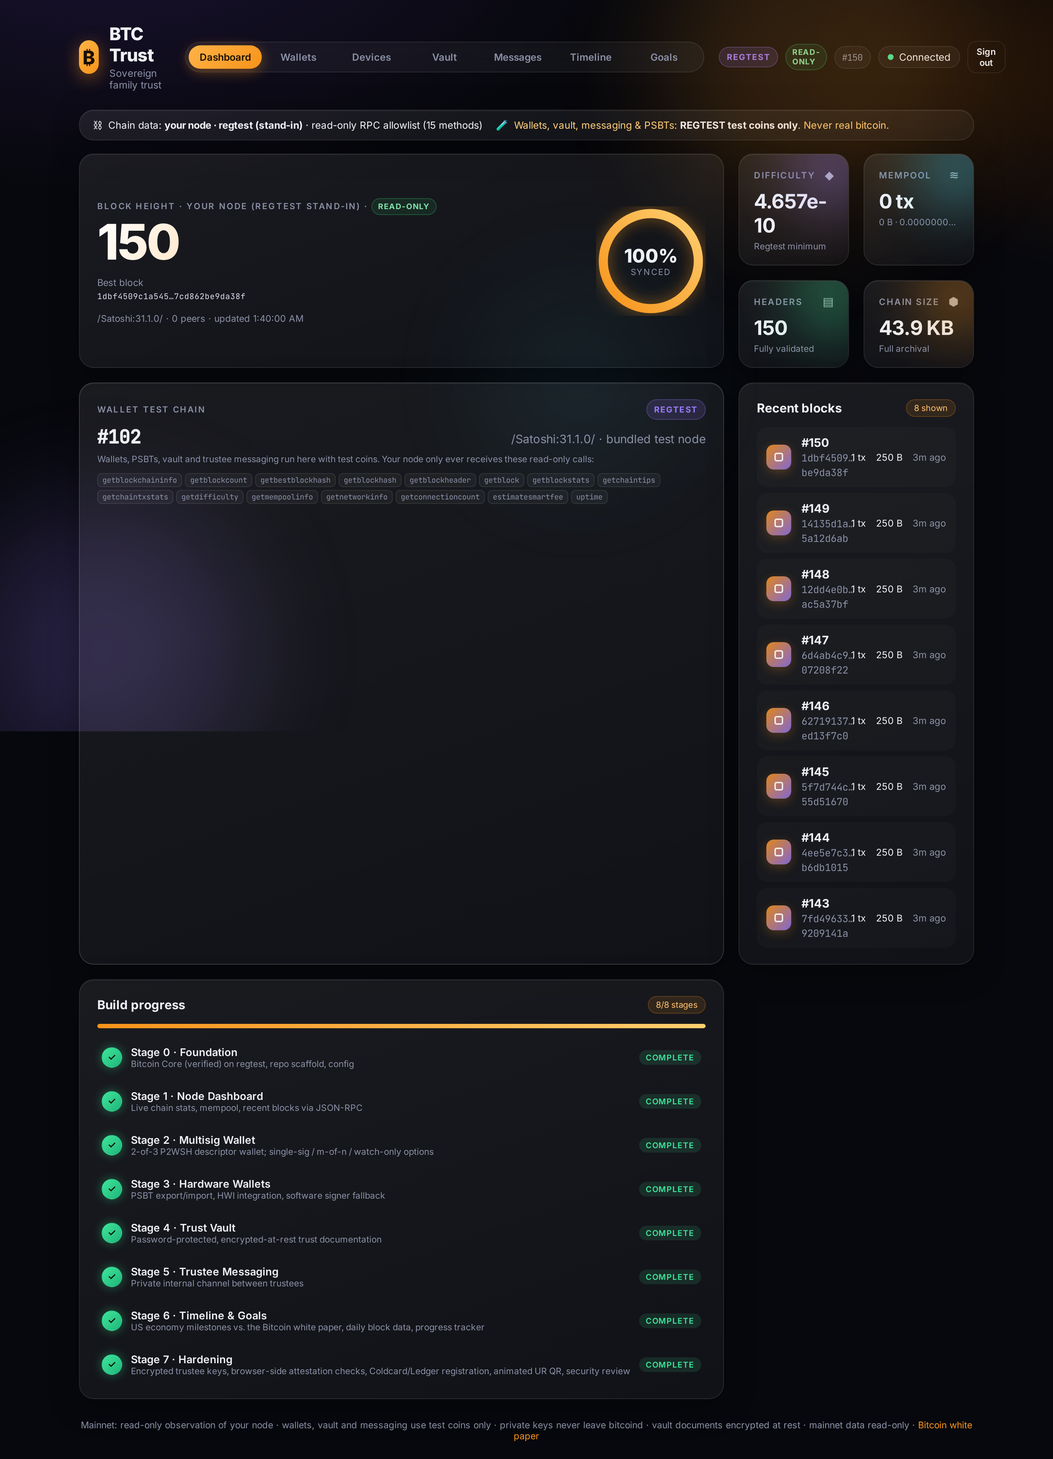
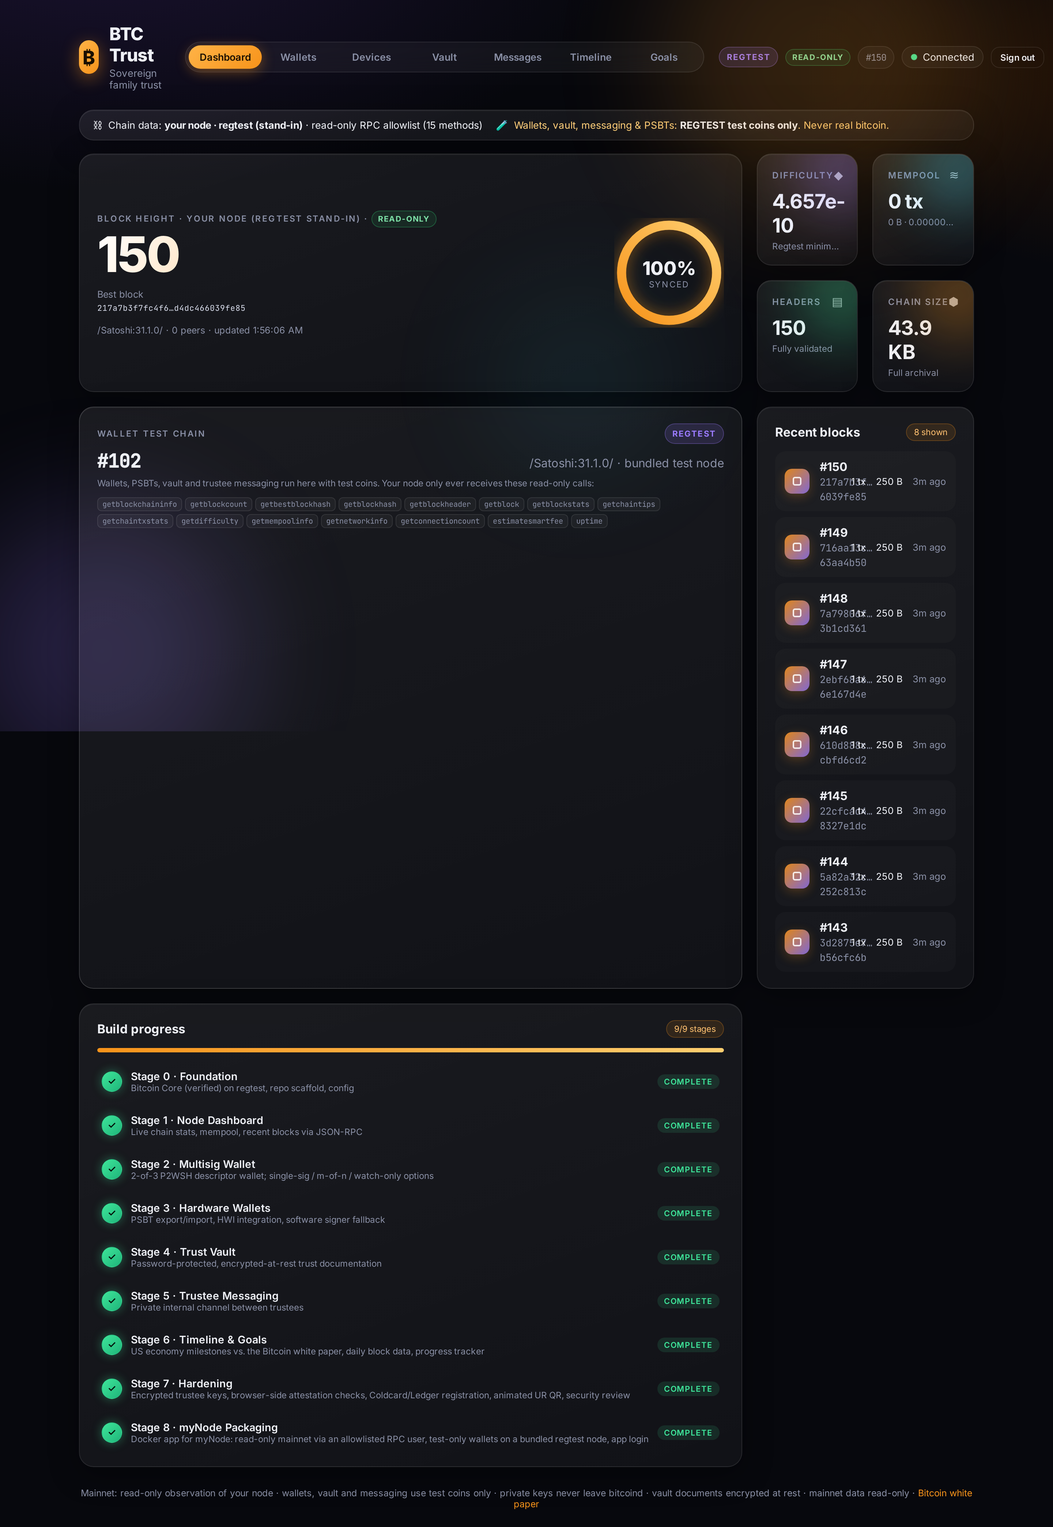
Stage 8: myNode packaging — read-only mainnet allowlist (code + bitcoind rpcwhitelist), test-only wallets on a bundled regtest node, app login, Docker image (amd64/arm64) + compose, myNode app + install/uninstall scripts, simulated-myNode verification

diff --git a/frontend/src/index.css b/frontend/src/index.css
@@ -785,12 +785,12 @@ select { font: inherit; color: var(--text); background: rgba(0,0,0,.35); border:
 .login input:focus { border-color: rgba(247,147,26,.6); box-shadow: 0 0 0 3px rgba(247,147,26,.15); }
 .login .btn.primary { margin-top: 8px; justify-content: center; }
 .net-main { background: rgba(247,147,26,.14); color: #ffb35c; border-color: rgba(247,147,26,.35); }
-.ro-pill { font-size: .66rem; letter-spacing: .08em; text-transform: uppercase; font-weight: 700; padding: 4px 8px; border-radius: 999px; color: #7ee2a8; background: rgba(46,204,113,.1); border: 1px solid rgba(46,204,113,.3); }
+.ro-pill { font-size: .66rem; letter-spacing: .08em; text-transform: uppercase; font-weight: 700; padding: 4px 8px; border-radius: 999px; color: #7ee2a8; background: rgba(46,204,113,.1); border: 1px solid rgba(46,204,113,.3); white-space: nowrap; }
 .split-banner { display: flex; flex-wrap: wrap; gap: 10px 18px; align-items: center; padding: 12px 18px; margin-bottom: 18px; font-size: .84rem; }
 .split-banner b { color: var(--text); }
 .split-banner .sb-item { display: flex; gap: 8px; align-items: center; }
 .split-banner .sb-test { color: #ffcf7a; }
-.btn.logout { font-size: .75rem; padding: 6px 12px; }
+.btn.logout { font-size: .75rem; padding: 6px 12px; white-space: nowrap; }
 .wallet-chain { display: flex; flex-direction: column; gap: 6px; }
 .wallet-chain .wc-row { display: flex; justify-content: space-between; align-items: baseline; gap: 12px; }
 .wallet-chain .wc-h { font-family: 'JetBrains Mono', monospace; font-size: 1.6rem; font-weight: 600; }

diff --git a/backend/src/stages.ts b/backend/src/stages.ts
@@ -11,5 +11,5 @@ export const STAGES: Stage[] = [
   { id: 5, title: 'Trustee Messaging', description: 'Private internal channel between trustees', status: 'complete' },
   { id: 6, title: 'Timeline & Goals', description: 'US economy milestones vs. the Bitcoin white paper, daily block data, progress tracker', status: 'complete' },
   { id: 7, title: 'Hardening', description: 'Encrypted trustee keys, browser-side attestation checks, Coldcard/Ledger registration, animated UR QR, security review', status: 'complete' },
-  { id: 8, title: 'myNode Packaging', description: 'Docker app for myNode: read-only mainnet via an allowlisted RPC user, test-only wallets on a bundled regtest node, app login', status: 'in-progress' },
+  { id: 8, title: 'myNode Packaging', description: 'Docker app for myNode: read-only mainnet via an allowlisted RPC user, test-only wallets on a bundled regtest node, app login', status: 'complete' },
 ];

diff --git a/frontend/src/components/StageTracker.tsx b/frontend/src/components/StageTracker.tsx
@@ -9,7 +9,7 @@ export const DEFAULT_STAGES: Stage[] = [
   { id: 5, title: 'Trustee Messaging', description: 'Private trustee channel', status: 'complete' },
   { id: 6, title: 'Timeline & Goals', description: 'Economy milestones + white paper', status: 'complete' },
   { id: 7, title: 'Hardening', description: 'Encrypted keys, device registration, UR QR', status: 'complete' },
-  { id: 8, title: 'myNode Packaging', description: 'Read-only mainnet, test wallets, app login', status: 'in-progress' },
+  { id: 8, title: 'myNode Packaging', description: 'Read-only mainnet, test wallets, app login', status: 'complete' },
 ]
 
 const LABEL = { complete: 'Complete', 'in-progress': 'In progress', planned: 'Planned' } as const

diff --git a/frontend/src/App.test.tsx b/frontend/src/App.test.tsx
@@ -49,8 +49,8 @@ describe('StageTracker', () => {
     expect(screen.getByTestId('stage-5')).toHaveClass('stage-complete')
     expect(screen.getByTestId('stage-6')).toHaveClass('stage-complete')
     expect(screen.getByTestId('stage-7')).toHaveClass('stage-complete')
-    expect(screen.getByTestId('stage-8')).toHaveClass('stage-in-progress')
-    expect(screen.getByTestId('stage-count')).toHaveTextContent('8/9')
+    expect(screen.getByTestId('stage-8')).toHaveClass('stage-complete')
+    expect(screen.getByTestId('stage-count')).toHaveTextContent('9/9')
   })
 })
 

diff --git a/backend/test/unit.test.ts b/backend/test/unit.test.ts
@@ -36,7 +36,7 @@ describe('syncPercent', () => {
 describe('stages', () => {
   it('lists 7 stages (0-6) with stages 0-5 complete', () => {
     expect(STAGES.map((s) => s.id)).toEqual([0, 1, 2, 3, 4, 5, 6, 7, 8]);
-    expect(STAGES.filter((s) => s.status === 'complete').map((s) => s.id)).toEqual([0, 1, 2, 3, 4, 5, 6, 7]);
+    expect(STAGES.filter((s) => s.status === 'complete').map((s) => s.id)).toEqual([0, 1, 2, 3, 4, 5, 6, 7, 8]);
   });
 });
 

diff --git a/docs/mynode-install.md b/docs/mynode-install.md
@@ -1,0 +1,182 @@
+# BTC Trust on myNode — install guide
+
+> **Read this first**
+> - **Mainnet is read-only.** On your myNode the app only *reads* chain data (dashboard, daily snapshots, timeline). It gets its own bitcoind login, `btctrust`, which **bitcoind itself** restricts to 15 read-only RPC methods. The app also refuses every other method in code. It never sees your myNode wallets, keys or LND.
+> - **Wallets, vaults, PSBTs and trustee messaging are TEST-ONLY.** They run on a separate **regtest** node bundled inside the app (or signet if you choose it). Its coins are worthless. **Never send real bitcoin to an address shown in BTC Trust.**
+> - This is beta software. It was tested on a *simulated* myNode, not on a real one yet (see [What was tested](#what-was-tested)).
+
+## What you need
+
+- A myNode (Raspberry Pi 4/5 = `aarch64`, or an x86_64 PC) on a recent release (Bitcoin Core 29.x is fine) with Docker running. myNode ships Docker for its Docker-based apps.
+- The package `btctrust-mynode-v0.8.0.tar.gz` (about 180 MB, with images for both CPU types). Build it on a computer with Docker by running `scripts/package-mynode.sh` in the repo; it lands in `build/`.
+- About 1 GB free on the myNode drive.
+- Port **9330** free (and 9331 for https). No stock myNode app uses either port.
+
+## 1. Copy the package to the myNode
+
+On your computer:
+
+```bash
+scp build/btctrust-mynode-v0.8.0.tar.gz build/btctrust-mynode-v0.8.0.tar.gz.sha256 admin@mynode.local:~/
+ssh admin@mynode.local        # password = your myNode password
+```
+
+([myNode: Accessing the Linux Terminal](https://mynodebtc.github.io/advanced/linux-terminal.html). Use the IP address if `mynode.local` doesn't resolve.)
+
+## 2. Unpack and run the installer (on the myNode)
+
+```bash
+sha256sum -c btctrust-mynode-v0.8.0.tar.gz.sha256
+tar xzf btctrust-mynode-v0.8.0.tar.gz
+cd btctrust-mynode-v0.8.0
+sudo ./install-mynode.sh
+```
+
+The installer explains what it will do and asks before continuing. Options:
+
+| option | meaning |
+|---|---|
+| `--wallets=regtest` (default) | test wallets on a private regtest chain: instant blocks, built-in faucet, no internet |
+| `--wallets=signet` | test wallets on public signet. The bundled node syncs signet (a few GB) and needs internet |
+| `--wallets=off` | read-only dashboard only. Wallet, vault, messaging and PSBT pages are hidden and their API returns 503 |
+| `--no-bitcoin-restart` | don't restart bitcoind now (do it yourself later, see step 3) |
+| `--yes` | don't ask questions |
+
+What it does:
+
+1. Copies the app definition to `/usr/share/mynode_apps/btctrust/` and runs `mynode-manage-apps init`. myNode then creates the `btctrust` Linux user (in the `docker` group), the systemd service, the nginx https proxy on 9331 and the firewall rule.
+2. Writes the read-only RPC user to **its own file**, `/mnt/hdd/mynode/settings/btctrust_bitcoin.conf` (owner root:bitcoin, mode 640):
+   ```ini
+   rpcauth=btctrust:<salt>$<hmac>
+   rpcwhitelist=btctrust:getblockchaininfo,getblockcount,getbestblockhash,getblockhash,getblockheader,getblock,getblockstats,getchaintips,getchaintxstats,getdifficulty,getmempoolinfo,getnetworkinfo,getconnectioncount,estimatesmartfee,uptime
+   rpcwhitelistdefault=0
+   ```
+   and adds one marked line to `/mnt/hdd/mynode/settings/bitcoin_post_config.conf`, keeping anything you already had there:
+   ```ini
+   # >>> btctrust read-only RPC user (managed by install-mynode.sh) >>>
+   includeconf=/mnt/hdd/mynode/settings/btctrust_bitcoin.conf
+   # <<< btctrust <<<
+   ```
+3. Writes the app settings to `/mnt/hdd/mynode/btctrust/btctrust.env` (mode 600, contains the generated passwords), then runs `mynode-manage-apps install btctrust`, which loads the Docker image for your CPU.
+4. Asks to restart bitcoind. Then it **self-checks**: `btctrust` must be able to call `getblockcount` (HTTP 200), and bitcoind must refuse `getwalletinfo` (HTTP 403). If either check fails, the app is not started.
+5. Enables and starts the `btctrust` service.
+
+### Why a separate file and `includeconf`?
+
+- **Why not put it straight in bitcoin.conf?** myNode regenerates `bitcoin.conf` every time bitcoind starts. It ends with `sed -i "s/rpcauth=.*/$RPCAUTH/g"` across the whole file, so an `rpcauth=` line pasted into bitcoin.conf or the post config would be overwritten with myNode's own credentials ([`mynode_gen_bitcoin_config.sh`](https://github.com/mynodebtc/mynode/blob/351432c134/rootfs/standard/usr/bin/mynode_gen_bitcoin_config.sh)). A line in an included file is left alone.
+- **Why is `rpcwhitelistdefault=0` required?** Without it, setting a whitelist for one user makes bitcoind deny every user that has no whitelist, including myNode's own `mynode` user, which would break myNode and LND. With `=0`, only `btctrust` is restricted. Both behaviors are covered by `backend/test/readonly.integration.test.ts` against a real bitcoind.
+- **Why the post config rather than a `[main]` section?** The post config is appended at the top level of the generated file, not inside a section ([same script](https://github.com/mynodebtc/mynode/blob/351432c134/rootfs/standard/usr/bin/mynode_gen_bitcoin_config.sh)), so the user exists on every chain.
+
+### Doing the bitcoin.conf part by hand (instead of the script)
+
+1. Create `/mnt/hdd/mynode/settings/btctrust_bitcoin.conf` with the three lines above. To generate the `rpcauth=` line for a password you choose, run `python3 /usr/bin/gen_rpcauth.py btctrust '<password>'`; it is the same algorithm as Bitcoin Core's `rpcauth.py`.
+2. Add the `includeconf=` line to the post config. You can do this either:
+   - on the command line, in `/mnt/hdd/mynode/settings/bitcoin_post_config.conf`; or
+   - in the web UI: **Bitcoin → Bitcoin Config → Additional Bitcoin Config → Post Bitcoin Config**. Note that saving there **reboots the myNode** ([`www/mynode/bitcoin.py`](https://github.com/mynodebtc/mynode/blob/351432c134/rootfs/standard/var/www/mynode/bitcoin.py)).
+3. If you use a fully custom config (`bitcoin_custom.conf`, "Custom Bitcoin Config" in the UI), myNode ignores the post config. Add the `includeconf=` line to your custom config instead. The installer detects this, leaves your file untouched, and prints the line.
+
+## 3. Restart steps
+
+The installer does this for you if you said yes. To do it by hand:
+
+```bash
+sudo systemctl restart bitcoin     # loads the btctrust RPC user (1–10 min on a Pi; LND reconnects by itself)
+sudo systemctl restart btctrust    # restarts the app
+```
+
+## 4. Open the app
+
+- `http://mynode.local:9330`, or `http://<myNode IP>:9330`
+- `https://mynode.local:9331` (through myNode's nginx, with myNode's self-signed certificate)
+
+**First visit:** the app asks for a one-time **setup token**, then you choose an **app passphrase** (12+ characters). The token is shown:
+
+- on the myNode web UI app page (Apps → BTC Trust → *App Default Credentials*), or
+- by running `sudo cat /mnt/hdd/mynode/btctrust/app/setup-token`.
+
+The token is deleted once the passphrase is set. After that:
+
+- You sign in with the passphrase. Sessions last 12 h, or 30 min idle.
+- After 5 wrong tries the login locks out for an increasing time.
+- The passphrase is stored only as a scrypt hash.
+- Vault documents and trustee keys still have their own separate passphrases.
+
+The header shows **read-only** next to the network badge. The banner reads "Chain data: your node · read-only RPC allowlist" and "Wallets … test coins only".
+
+**Different hostname?** If you open the app by a name other than `mynode.local`, `mynode`, the device hostname or an IP address, the app answers "421 Misdirected" (DNS-rebinding protection). To fix that:
+
+1. Add the name to `API_ALLOWED_HOSTS_EXTRA=` in `/mnt/hdd/mynode/btctrust/btctrust.env`.
+2. Re-run `sudo ./install-mynode.sh --no-bitcoin-restart`, or add it to `API_ALLOWED_HOSTS` yourself.
+3. Run `sudo systemctl restart btctrust`.
+
+## Where things live
+
+| path | what |
+|---|---|
+| `/usr/share/mynode_apps/btctrust/` | app definition (json, icon, service, scripts, nginx, image tarballs) |
+| `/opt/mynode/btctrust/` | install folder (`app_data/run.sh`, which the service runs) |
+| `/mnt/hdd/mynode/btctrust/btctrust.env` | settings and generated passwords (600) |
+| `/mnt/hdd/mynode/btctrust/app/` | app data: test wallets' metadata, encrypted vaults, messaging, daily snapshots, `auth.json` |
+| `/mnt/hdd/mynode/btctrust/testnode/` | the bundled regtest/signet node's data |
+| `/mnt/hdd/mynode/settings/btctrust_bitcoin.conf` | the read-only RPC user |
+
+Containers: `btctrust` (the app; port 9330, reaches bitcoind at `host.docker.internal:8332`, which myNode's `rpcallowip=172.16.0.0/12` permits) and `btctrust-testnode` (on an internal Docker network with no published ports; for regtest it has no internet either). Both run as the `btctrust` user, not root.
+
+## Troubleshooting
+
+```bash
+sudo systemctl status btctrust
+sudo journalctl -u btctrust -n 100
+sudo docker logs btctrust --tail 100
+sudo docker logs btctrust-testnode --tail 50
+grep "not allowed to call method" /mnt/hdd/mynode/bitcoin/debug.log | tail   # anything bitcoind refused for btctrust
+```
+
+- **Dashboard says the mainnet node is unreachable:** check that bitcoind was restarted after install and that `grep includeconf /mnt/hdd/mynode/bitcoin/bitcoin.conf` shows the line.
+- **Errors mentioning `-32604` or 403:** something asked for a non-allowlisted RPC. That is the protection working; please report which page did it.
+
+## Uninstall
+
+```bash
+cd ~/btctrust-mynode-v0.8.0
+sudo ./uninstall-mynode.sh            # app, images, app definition, RPC user; KEEPS /mnt/hdd/mynode/btctrust
+sudo ./uninstall-mynode.sh --purge    # also deletes the app data (asks you to type DELETE)
+```
+
+The uninstaller:
+
+1. Runs `mynode-manage-apps uninstall btctrust`.
+2. Removes the files myNode's `init` installed (service, scripts, nginx config).
+3. Removes the marked `includeconf` block and `btctrust_bitcoin.conf`.
+4. Offers to restart bitcoind so the `btctrust` RPC user disappears.
+
+## Other Docker hosts
+
+`docker-compose.yml` runs the same split setup on any Docker host:
+
+```bash
+cp btctrust.env.example btctrust.env    # edit it
+docker compose --env-file btctrust.env up -d
+```
+
+Create the restricted RPC user in that node's bitcoin.conf yourself, using the same three lines as above.
+
+## What was tested
+
+**Verified on a simulated myNode** (`scripts/mynode-sim.sh up` then `scripts/verify-mynode-sim.mts`, 50 checks):
+
+- myNode's **own** `mynode_gen_bitcoin_config.sh` and config templates (pinned commit `351432c134`) generated bitcoin.conf with our include, twice. The `rpcauth` sed did not clobber our user.
+- A regtest bitcoind ran with that config and stood in for mainnet. It had a loaded hot wallet, like myNode's `main.wallet=wallet.dat`.
+- `install-mynode.sh` (simulation mode) and `run.sh` (what the service runs) worked against it.
+- The app read the stand-in's height, blocks and daily snapshot.
+- Wallets, mining and the faucet ran only on the bundled test node.
+- bitcoind returned 403 to `btctrust` for wallet, send, sign, import and stop calls, while myNode's `mynode` user kept full access.
+- The login, WebSocket auth, healthcheck and non-root container all behaved as expected.
+
+**Only documented, not run:**
+
+- the real `mynode-manage-apps init/install/uninstall`, and the systemd unit;
+- myNode's nginx on 9331, the firewall and the Tor hidden service;
+- the app page showing the setup token.
+
+Those follow myNode's app SDK ([`doc/applications.md`](https://github.com/mynodebtc/mynode/blob/351432c134/doc/applications.md), [`var/pynode/application_info.py`](https://github.com/mynodebtc/mynode/blob/351432c134/rootfs/standard/var/pynode/application_info.py), and the albyhub/publicpool Docker apps as examples) but haven't been run on real hardware. The arm64 image was built and started under QEMU emulation, not on a Pi.

diff --git a/README.md b/README.md
@@ -37,9 +37,12 @@ screenshots/stage1.png
 ## API
 | Endpoint | Description |
 |---|---|
+| `GET /api/healthz` | liveness probe for the Docker healthcheck (no login needed) |
+| `GET /api/auth/status`, `POST /api/auth/{setup,login,logout,passphrase}` | app login: first-run setup with a one-time token, passphrase sign-in (session cookie), change passphrase (revokes all sessions) |
+| `GET /api/mode` | `standalone` or `split`; mainnet allowlist (methods, refused count), wallet chain, whether login is required |
 | `GET /api/health` | RPC connectivity (returns 503 when bitcoind is down) |
 | `GET /api/blockchain` | network, height, headers, best hash, difficulty, sync %, IBD, size on disk, mempool, node version and peers |
-| `GET /api/blocks?count=N` | the newest N blocks (up to 50), newest first |
+| `GET /api/blocks?count=N` | the newest N blocks (up to 50), newest first. Add `?source=mainnet` here or on `/api/blockchain` to read your node through the read-only allowlist |
 | `GET /api/stages` | roadmap stages and their status |
 | `GET /api/wallets` | list wallets with their config and balance |
 | `POST /api/wallets` | create a wallet: `{name, type: multisig\|singlesig\|watchonly, m?, n?, cosignerLabels?, externalKeys?, descriptor?, xpub?}` |
@@ -186,22 +189,31 @@ bash scripts/regtest-node.sh cli -generate 1   # mine a block and watch the dash
   headers, a production CSP, self-hosted fonts, owner-only data files and `.env`, and a clean `npm audit`. Details and remaining items are in
   [docs/security-review.md](docs/security-review.md).
 
+### myNode packaging (Stage 8)
+- **Split mode** (`APP_MODE=split`): the dashboard, daily snapshots and timeline read **mainnet** from your node through `ReadOnlyRpc`
+  ([backend/src/readonly-rpc.ts](backend/src/readonly-rpc.ts)). It is a frozen allowlist of 15 read-only methods; anything else (wallet, send, sign,
+  import, `stop`, any `/wallet/` path, case tricks) is refused with `-32604` **before** a request is sent. Wallets, vaults, messaging and PSBTs
+  run on a **separate regtest/signet node** (`TestChainRpc` refuses to talk to a mainnet node), or are switched off (`WALLET_FEATURES=off`).
+- **Defense in depth:** a dedicated `rpcauth` user plus bitcoind's own `rpcwhitelist` (and `rpcwhitelistdefault=0`). bitcoind returns 403 for
+  everything else, even if the app were compromised. This is tested against a real bitcoind.
+- **App login:** a passphrase set on first run with a one-time setup token, scrypt-hashed (`data/auth.json`), in an HttpOnly SameSite session cookie
+  with lockout. It is required whenever the API binds beyond loopback (`AUTH_MODE=auto|on`).
+- **Packaging:** a multi-stage [Dockerfile](Dockerfile) (one port, 9330, serving the built SPA plus the API; non-root; healthcheck; verified Bitcoin Core
+  31.1 for the test node; amd64 + arm64 via buildx), [docker-compose.yml](docker-compose.yml), and the myNode app definition in [mynode/btctrust](mynode/btctrust)
+  with [install-mynode.sh](mynode/install-mynode.sh) and [uninstall-mynode.sh](mynode/uninstall-mynode.sh). `scripts/package-mynode.sh` builds the tarball.
+- **Install guide for Joey:** [docs/mynode-install.md](docs/mynode-install.md).
+- **Simulated myNode:** `scripts/mynode-sim.sh up`, then `backend/node_modules/.bin/tsx scripts/verify-mynode-sim.mts` (50 end-to-end checks), then
+  `scripts/mynode-sim.sh down`.
+
 ## Roadmap
 0. Foundation ✅ · 1. Node dashboard ✅ · 2. Multisig wallet (2-of-3 P2WSH descriptors) ✅ · 3. Hardware wallets (PSBT/HWI) ✅ ·
 4. Encrypted trust vault ✅ · 5. Trustee messaging ✅ · 6. Timeline (US economy milestones + [white paper](https://bitcoin.org/bitcoin.pdf)), daily mainnet log and goals tracker ✅ ·
-7. Hardening (encrypted trustee keys, device registration, animated UR QR, security review) ✅
+7. Hardening (encrypted trustee keys, device registration, animated UR QR, security review) ✅ ·
+8. myNode packaging (read-only mainnet, test-only wallets, app login, Docker) ✅
 
-Next: Tor transport · myNode packaging · independent security audit · real-device Ledger/Coldcard validation · API authentication
+Next: Tor transport · independent security audit · real-device Ledger/Coldcard validation · install on a physical myNode · per-trustee accounts
 
 ## myNode deployment notes
-- Set `BITCOIN_RPC_HOST`/`PORT`/`USER`/`PASSWORD` to myNode's bitcoind values (see `/mnt/hdd/mynode/bitcoin/bitcoin.conf`, or the
-  RPC credentials shown in the myNode UI under Bitcoin). The default mainnet port is 8332.
-- myNode runs mainnet, so the mainnet guard has to be lifted on purpose (`BITCOIN_NETWORK=main`, `ALLOW_MAINNET=true`).
-  Only do this after the wallet stages have been audited. Reading chain data is harmless, but later stages can spend.
-- bitcoind's `rpcallowip` must include the app's container or host IP. In Docker, set `API_HOST=0.0.0.0` and list the proxy's hostname in
-  `API_ALLOWED_HOSTS`. The API has no user authentication, so only expose it through an authenticating reverse proxy (see docs/security-review.md).
-- For a production build: `npm --prefix frontend run build`, then serve `frontend/dist` behind the same origin as `/api`
-  (myNode's app framework is Docker plus an nginx reverse proxy).
-- Timeline: set `MAINNET_RPC_HOST`/`USER`/`PASSWORD` to myNode's bitcoind and the daily log reads `getblockchaininfo` from your own node,
-  with no mainnet guard change needed, because only read-only RPCs are used and the wallet stages stay on regtest.
-- Stages 2 and 3 need wallet RPC (`disablewallet=0`, which is myNode's default). HWI needs USB passthrough to the container.
+See [docs/mynode-install.md](docs/mynode-install.md). In short: copy the package, run `sudo ./install-mynode.sh`, approve the bitcoind restart, then open
+`http://mynode.local:9330` and enter the setup token. **Do not set `BITCOIN_NETWORK=main` on myNode.** Split mode is the supported setup, and it
+refuses a mainnet wallet chain even with `ALLOW_MAINNET=true`.

diff --git a/docs/security-review.md b/docs/security-review.md
@@ -51,8 +51,12 @@ Unchanged items that were checked and are OK:
 - `dangerouslySetInnerHTML` is used only for SVG produced by the `qrcode` library from app data.
 
 ## Remaining risks (for the independent audit)
-1. **No API authentication.** Security relies on loopback binding plus the Host and Origin checks. Any local process can call the API.
-   Before exposing it beyond localhost (`API_HOST=0.0.0.0` on myNode/Docker), put it behind an authenticating reverse proxy or add per-trustee login (backlog).
+1. **Single shared app login (Stage 8).** The API now requires an app passphrase whenever it binds beyond loopback. It is scrypt-hashed, set
+   with a one-time setup token, uses an HttpOnly SameSite=Lax session cookie, and locks out after 5 failures; the WebSocket requires the session too.
+   Remaining gaps: one passphrase for everyone (no per-trustee accounts), in-memory sessions (a restart signs everyone out), and plain HTTP on
+   :9330 inside the LAN (use https on :9331 via myNode's nginx). On loopback the app still has no login (`AUTH_MODE=auto`); set
+   `AUTH_MODE=on` to require it there too.
+   Mainnet access in split mode is limited twice: by the app's read-only allowlist and by bitcoind `rpcwhitelist` for the dedicated `btctrust` user.
 2. **The address-to-cosigner mapping comes from the server.** The browser verifies signatures against the cosigner address that the API reports.
    A malicious server that also rewrote the wallet descriptor could bind its own key. Mitigation: compare safety numbers out of band and verify descriptors on the hardware device.
 3. **XSS while unlocked.** The decrypted keyring is in memory while unlocked. The production CSP blocks inline and third-party script; the dev server has no CSP.
